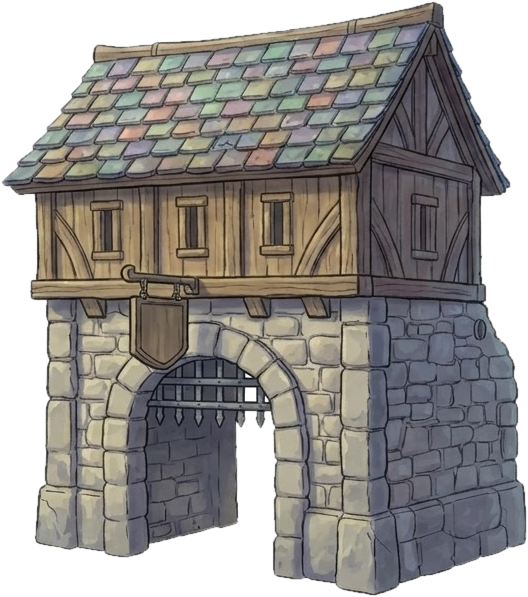
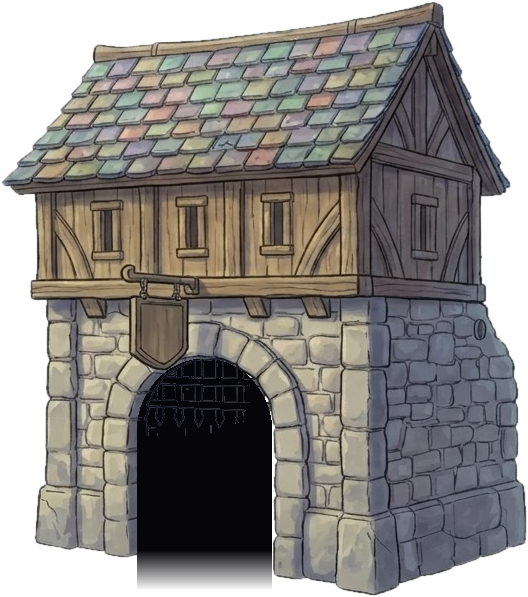
Gatehouse: dark passage behind the arch, dirt path runs in under it, door emote for the Worldbind Passage (passage still to build)
Claude-Session: https://claude.ai/code/session_016iBLHYMLHjCgJ7syNGEacS

Changed region(s): [[0.2424, 0.603, 0.5152, 0.995]]

diff --git a/src/game/21-stranglethorn.js b/src/game/21-stranglethorn.js
@@ -7,7 +7,7 @@ const CLR={x0:TW_+260,cx:TW_+260+760,cy:TMZ.finish*TCH+TCH/2+10,rx:760,ry:440,x1
 const CPATH={y:CLR.cy+130,xt:CLR.x1+430,ytop:CLR.cy-430,hw:72};
 const clrIn=(x,y)=>((x-CLR.cx)/(CLR.rx-70))**2+((y-CLR.cy)/(CLR.ry-60))**2<1;
 /* the path is a gentle curve drawn with the woods' road painter (buildPath/drawPath in 17): east out of the clearing, bending up north to the gatehouse arch */
-const CPATH_CTRL=[[CLR.cx+CLR.rx-470,CPATH.y+20],[CLR.cx+CLR.rx-300,CPATH.y+6],[CLR.x1+40,CPATH.y-4],[CPATH.xt-260,CPATH.y+14],[CPATH.xt-90,CPATH.y-60],[CPATH.xt-20,CPATH.y-250],[CPATH.xt+6,CPATH.ytop+120],[CPATH.xt,CPATH.ytop+20]];
+const CPATH_CTRL=[[CLR.cx+CLR.rx-470,CPATH.y+20],[CLR.cx+CLR.rx-300,CPATH.y+6],[CLR.x1+40,CPATH.y-4],[CPATH.xt-260,CPATH.y+14],[CPATH.xt-90,CPATH.y-60],[CPATH.xt-20,CPATH.y-250],[CPATH.xt+6,CPATH.ytop+120],[CPATH.xt+2,CPATH.ytop+10],[CPATH.xt+3,CPATH.ytop-40]];
 const CPATH_PTS=splinePts(CPATH_CTRL,20);let CPATHP=null;
 function cpathDist(x,y){let best=1e9;for(let i=0;i<CPATH_PTS.length-1;i++){const [ax,ay]=CPATH_PTS[i],[bx,by]=CPATH_PTS[i+1],dx=bx-ax,dy=by-ay,t=clamp(((x-ax)*dx+(y-ay)*dy)/(dx*dx+dy*dy),0,1),d=Math.hypot(x-ax-dx*t,y-ay-dy*t);if(d<best)best=d;}return best;}
 const clrOnPath=(x,y)=>CH>=2&&cpathDist(x,y)<CPATH.hw;

diff --git a/src/game/22-jak-and-thorn-foes.js b/src/game/22-jak-and-thorn-foes.js
@@ -70,6 +70,8 @@ const THINT=[{x:JAKREST.x-6,y:JAKREST.y-100,reach:100,onInteract:()=>jakInteract
   // the maze's exit, once the Broodmother is gone: on to the clearing
   {x:TW_,y:TMZ.finish*TCH+TCH/2+10,reach:165,door:true,onInteract:()=>goScene(enterClearing)},
   // and back again, before Lum reaches Cosmic
+  // Chapter 2: the gatehouse's dark archway leads into the Worldbind Passage (the passage itself is still to be built)
+  {x:CPATH.xt+3,y:CPATH.ytop+30,get reach(){return CH>=2?90:0},dynDoor:true,get door(){return CH>=2},onInteract:()=>{if(CH<2)return;if(typeof enterWorldbind==='function')goScene(enterWorldbind);}},
   // (in Chapter 2 the hellfire still burns across this entrance: no door, no way back into Stranglethorn)
   {x:TW_+260+95,y:TMZ.finish*TCH+TCH/2+10,get reach(){return CH>=2?0:80},dynDoor:true,get door(){return CH<2},onInteract:()=>{if(FKS.st||CH>=2)return;goScene(()=>{lum.x=TW_-120;lum.y=TMZ.finish*TCH+TCH/2+10;lum.face=-1;cam.x=lum.x;cam.y=lum.y-50;resetJakFollow();});}}];
 
